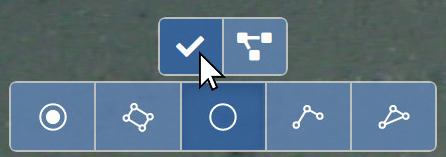
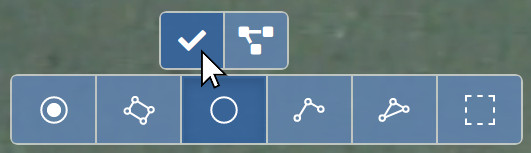
Update the manual for whole frame video annotations

diff --git a/resources/views/manual/tutorials/videos/creating-video-annotations.blade.php b/resources/views/manual/tutorials/videos/creating-video-annotations.blade.php
@@ -11,10 +11,10 @@
             In many ways, video annotations are similar to the still image annotations that you might already be familiar with from the <a href="{{route('manual-tutorials', ['annotations', 'getting-started'])}}">still image annotation tool</a> of BIIGLE. The video annotation tool offers most of the annotation shapes that are available for still images. Learn more about these shapes in the <a href="{{route('manual-tutorials', ['annotations', 'creating-annotations'])}}">manual article</a> of the still image annotation tool. The ellipse shape and magic wand tool are not available for video annotations.
         </p>
         <p>
-            In many ways, creating a video annotation works the same as creating a still image annotation. First, you select a label from the <i class="fa fa-tags"></i> label trees tab in the sidebar, then you activate a tool in the tool bar at the bottom of the video and finally you draw the annotation in the video. But now comes an additional step. After you have drawn the annotation in the video, you have to finish it by clicking on the <button class="btn btn-xs btn-default"><i class="fa fa-check"></i></button> button that appears when a tool is activated. Only after a new annotation has been finished, it is created and saved.
+            Creating a video annotation works mostly the same as creating a still image annotation. First, you select a label from the <i class="fa fa-tags"></i> label trees tab in the sidebar, then you activate a tool in the tool bar at the bottom of the video and finally you draw the annotation in the video. But now comes an additional step. After you have drawn the annotation in the video, you have to finish it by clicking on the <button class="btn btn-xs btn-default"><i class="fa fa-check"></i></button> button that appears when a tool is activated. Only after a new annotation has been finished, it is created and saved.
         </p>
         <p class="text-center">
-            <a href="{{asset('assets/images/manual/videos/creating_annotations_1.jpg')}}"><img src="{{asset('assets/images/manual/videos/creating_annotations_1.jpg')}}" width="40%"></a>
+            <a href="{{asset('assets/images/manual/videos/creating_annotations_1.jpg')}}"><img src="{{asset('assets/images/manual/videos/creating_annotations_1.jpg')}}" width="50%"></a>
         </p>
         <p>
             Congratulations, you have just created your first <i>single-keyframe video annotation</i>. A single-keyframe video annotation marks an object or a region of interest (ROI) in a single frame of the video. Most of the time, however, objects or ROIs are moving and visible in multiple frames of the video and you might want to model this with your annotations, too. This is where multi-keyframe video annotations, or simply <i>annotation clips</i>, come in and the video annotation tool begins to deviate from the still image annotation tool.
@@ -56,6 +56,25 @@
         <p>
             The result of the automatic object tracking may not always be perfect. Sometimes the tracked object may be lost and the annotation "wanders off" if the object moves too quickly. Or sometimes the tracked object becomes too small or indistinguishable from the background. If the annotation clip produced by the object tracking is only partly wrong, you can <a href="{{route('manual-tutorials', ['videos', 'editing-video-annotations'])}}">edit it</a> afterwards. If the object tracking does not work at all, you might have to fall back to the fully manual creation of annotation clips.
         </p>
+
+        <h3><a name="whole-frame-annotations"></a>Whole Frame Annotations</h3>
+
+        <p>
+            The whole frame annotation tool can be used to annotate whole video frames instead of points or regions in the video. It is located at the right of the annotation tool bar.
+        </p>
+
+        <p class="text-center">
+            <a href="{{asset('assets/images/manual/videos/creating_annotations_8.jpg')}}"><img src="{{asset('assets/images/manual/videos/creating_annotations_8.jpg')}}" width="50%"></a>
+        </p>
+
+        <p>
+            To initialize a whole frame annotation, click the button in the tool bar. The annotation is immediately initialized at the current time of the video. To create a single-keyframe whole frame annotation, click the <button class="btn btn-xs btn-default"><i class="fa fa-check"></i></button> button. To create a whole frame annotation that spans multiple video frames, play the video or select a later video time and then click the <button class="btn btn-xs btn-default"><i class="fa fa-check"></i></button> button. Whole frame annotations are only displayed in the <a href="{{route('manual-tutorials', ['videos', 'navigating-timeline'])}}">video timeline</a> and can be distinguished from regular annotations by their crosshatched background.
+        </p>
+
+        <p class="text-center">
+            <a href="{{asset('assets/images/manual/videos/creating_annotations_9.jpg')}}"><img src="{{asset('assets/images/manual/videos/creating_annotations_9.jpg')}}" width="100%"></a>
+        </p>
+
         <p>
             Read on and learn more about the <a href="{{route('manual-tutorials', ['videos', 'navigating-timeline'])}}">video timeline</a>.
         </p>

diff --git a/resources/views/manual/tutorials/videos/shortcuts.blade.php b/resources/views/manual/tutorials/videos/shortcuts.blade.php
@@ -61,6 +61,10 @@
                     <td>Select the polygon fill tool</td>
                 </tr>
                 <tr>
+                    <td><kbd>h</kbd></td>
+                    <td>Select the whole frame annotation tool</td>
+                </tr>
+                <tr>
                     <td><kbd>m</kbd></td>
                     <td>Select the tool to move selected annotations</td>
                 </tr>
